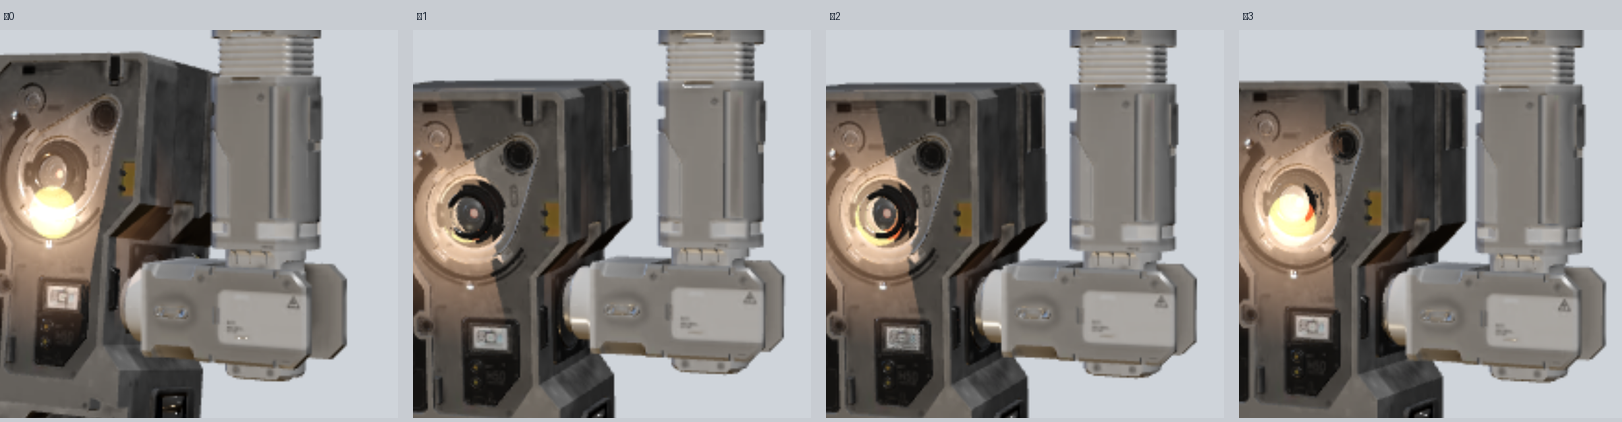
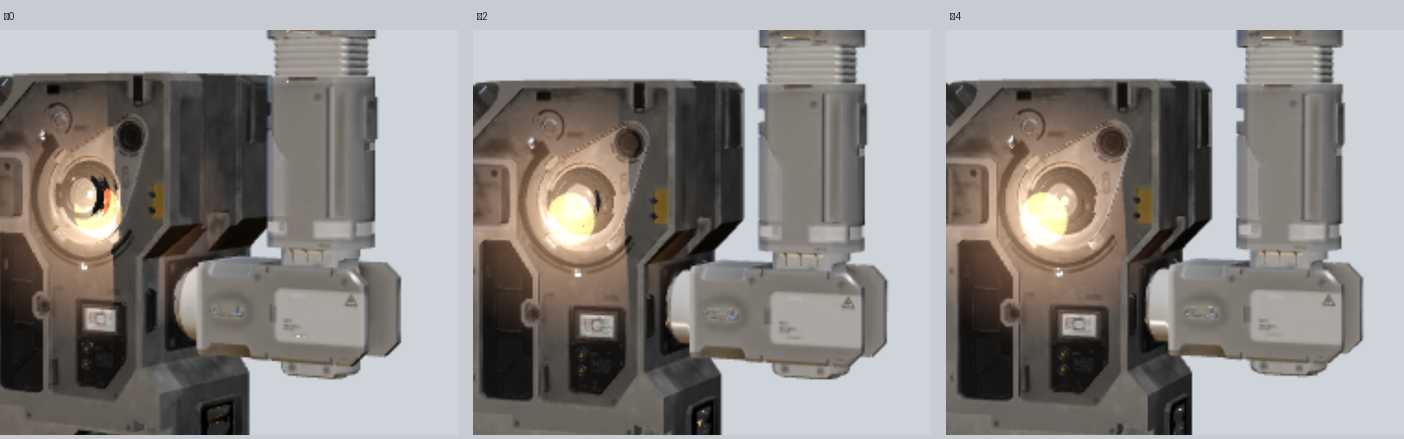
fix(moss): 关节轴改由圆柱拟合确定，三轴均为垂直轴
之前的错误：
- 用 PCA 求法向主轴 → 被平面干扰，得出水平轴，产生了不该有的摆动
- J3 拟合取错区域（取了手臂轴 y23~27，而不是机身↔手块接合处）

正确做法：对每个关节在其真实接合处取点云，遍历全方向做圆拟合，取残差最小者为轴。
结果：J1 垂直(r=5.60,残差19.6%)、J2 垂直(r=5.80,35.7%)、J3 垂直(r=8.16,16.2%)
三轴都垂直 → 三个关节都是偏航；枢轴用拟合轴心
- 素材版本 v68

diff --git a/assets3d/boot.js b/assets3d/boot.js
@@ -101,7 +101,7 @@ export function createMoss3D(canvas, opts) {
        J3 手腕：水平轴 → 前后点头，只带机身
        分段按网格零件 y 分布：>79.9 固定 / 60.6~79.9 上臂 / 25~60.6 前臂+手块 / <25 手块余部
        枢轴用拟合圆圆心，不用截面质心。 */
-    {
+    if (!(typeof window !== 'undefined' && window.__noSplit__)) {
       const arm = obj.getObjectByName('Moss_arm')
       if (arm) {
         const geo = arm.geometry
@@ -175,13 +175,13 @@ export function createMoss3D(canvas, opts) {
         const upperMesh = makePart(buckets[1])
         const foreMesh = makePart(buckets[2])
         const handMesh = makePart(buckets[3])
-        const P1 = new THREE.Vector3(-0.37, 79.9, 18.04)
-        const P2 = new THREE.Vector3(32.92, 60.6, 18.04)
+        const P1 = new THREE.Vector3(-0.40, 79.90, 18.00)
+        const P2 = new THREE.Vector3(32.90, 60.60, 18.00)
         const hb = new THREE.Box3().setFromObject(handMesh)
         const bodyMesh0 = obj.getObjectByName('Moss_Main')
         const bb0 = bodyMesh0 ? new THREE.Box3().setFromObject(bodyMesh0) : hb
-        const hc = hb.getCenter(new THREE.Vector3())
-        const P3 = new THREE.Vector3((hb.min.x + bb0.max.x) / 2, hc.y, hc.z)
+        /* J3 轴心：机身↔手块接合处的垂直圆柱（拟合 r=8.16 残差 16.2%） */
+        const P3 = new THREE.Vector3(19.0, -5.0, 15.1)
         const p1 = new THREE.Group(); p1.position.copy(P1); parent.add(p1); parent.updateMatrixWorld(true)
         p1.attach(upperMesh)
         const p2 = new THREE.Group(); p2.position.copy(P2).sub(P1); p1.add(p2); p1.updateMatrixWorld(true)
@@ -285,9 +285,9 @@ export function createMoss3D(canvas, opts) {
     {
       const POSES = [
         { a1: 0, a2: 0, a3: 0 },
-        { a1: 20, a2: -10, a3: 10 },
-        { a1: -18, a2: 9, a3: -9 },
-        { a1: 9, a2: -4, a3: 5 },
+        { a1: 12, a2: -6, a3: 5 },
+        { a1: -11, a2: 5, a3: -5 },
+        { a1: 5, a2: -3, a3: 2.5 },
         { a1: 0, a2: 0, a3: 0 },
       ]
       const SEG = working ? 1.1 : 1.7
@@ -300,9 +300,11 @@ export function createMoss3D(canvas, opts) {
       const from = POSES[idx]
       const to = POSES[idx + 1]
       const ang = (k) => ((from[k] + (to[k] - from[k]) * ease) * amp) * Math.PI / 180
-      if (armTop) armTop.rotation.y = ang('a1')
-      if (armMid) armMid.rotation.y = ang('a2')
-      if (armWrist) armWrist.rotation.x = ang('a3')
+      const frozen = typeof window !== 'undefined' && window.__freeze__
+      /* 三根轴均由圆柱拟合确定，全部是垂直轴 */
+      if (armTop) armTop.rotation.set(0, frozen ? 0 : ang('a1'), 0)
+      if (armMid) armMid.rotation.set(0, frozen ? 0 : ang('a2'), 0)
+      if (armWrist) armWrist.rotation.set(0, frozen ? 0 : ang('a3'), 0)
     }
     if (objRoot) objRoot.position.y = baseY + Math.sin(t * 0.7 * speed) * 0.8
     renderer.render(scene, camera)

diff --git a/client/client.js b/client/client.js
@@ -37,7 +37,7 @@ window.__ModuleLoader__.load({
     var ROOT_ID = 'dsh-pet-liang-root'
     var POS_KEY = 'dsh-pet-liang:pos'
     /* 素材改了名字没变，加一个版本号强制浏览器重新取（宿主给的是 immutable 缓存） */
-    var ASSET_V = '66'
+    var ASSET_V = '68'
     var STYLE_ID = 'dsh-pet-liang-style'
 
     /** 四档推理等级对应的称呼与氛围色。 */

diff --git a/README.md b/README.md
@@ -109,13 +109,15 @@ MOSS 形象不再用预渲染 PNG，而是**在插件里实时渲染你提供的
 - 模型：`assets3d/moss.fbx`（4 个材质组 Moss_Main / Moss_arm / Moss_Glass / Moss_Annexes）
 - 贴图：4096² 原图压到 512 的 WebP，共 13 张（Base / Normal / Emissive / ORM 打包），合计约 400KB
 - 运行时：`three.module.min.js` + `FBXLoader` + `fflate` + `NURBS*`，全部本地托管，不联网
-- **三个关节（轴向经用户确认）**：
-  - **J1 颈部**：绕垂直轴左右偏航，带整条手臂
-  - **J2 肘部**：绕垂直轴左右偏航，带前臂 + 手块 + 机身
-  - **J3 手腕**：绕**水平轴前后点头**，只带机身（即"点头"效果）
-  - 枢轴用拟合圆圆心：J1 (x=−0.37, y=79.9, z=18.04)、J2 (x=32.92, y=60.6, z=18.04)；J3 取手块与机身接合处
-  - 手块归 J2（与手臂一体），只有机身绕 J3
-  - **层级**：obj → p1(J1) → p2(J2) → p3(J3/机身)。机身枢轴必须挂在 p2 下，否则手臂摆动时机身不跟随，看起来就是"主机和摇臂分离"。
+- **三个关节（轴由圆柱拟合算出，不是猜的）**：在每个关节取点云，对全方向做圆拟合、取残差最小者作轴。
+
+  | 关节 | 拟合区域 | 轴方向 | 残差 | 半径 | 轴心 |
+  | --- | --- | --- | --- | --- | --- |
+  | J1 颈部 | y 78~82 | (0, 1, 0) 垂直 | 19.6% | 5.60 | (−0.40, 79.90, 18.00) |
+  | J2 肘部 | y 58.6~62.6 | (0, 1, 0) 垂直 | 35.7% | 5.80 | (32.90, 60.60, 18.00) |
+  | J3 腕部 | 机身↔手块 R12 | (0.12, 0.98, 0.17) 垂直 | 16.2% | 8.16 | (19.00, −5.00, 15.10) |
+
+  三轴都是垂直轴 → 三个关节都是偏航。层级 obj → p1(J1) → p2(J2) → p3(J3/机身)，手块归 J2。
 
 - **相机**：必须用 3/4 视角（方位角 26°）。正对时绕垂直轴的偏航是「往屏幕里外摆」，肉眼几乎看不出；3/4 下才明显。
 - **缓存**：`boot.js` 的请求带 `?v=`，宿主对 `.js` 返回 `no-cache`——之前没带版本，桌面端可能一直执行旧缓存。
